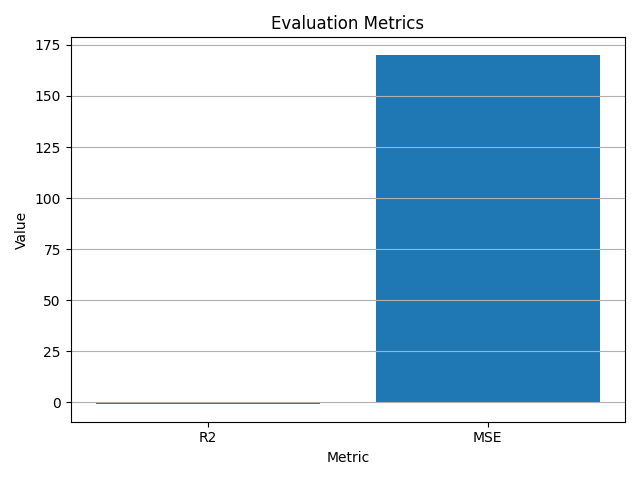
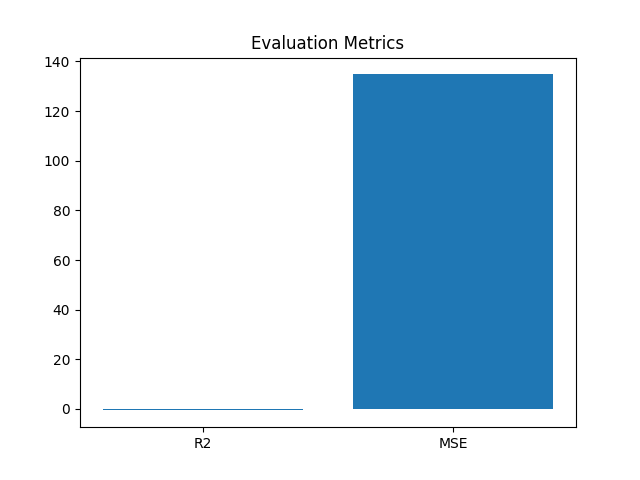
added by zj

diff --git a/templates/myGPT/experiment.py b/templates/myGPT/experiment.py
@@ -2,6 +2,7 @@ import os
 import datetime
 import pandas as pd
 import numpy as np
+import json
 import torch
 import torch.nn as nn
 import torch.nn.functional as F
@@ -11,8 +12,9 @@ from torch.utils.data import Dataset, DataLoader, random_split
 # Project Metadata
 # ====================================================
 project_name = "基于dify生成反义寡核苷酸（ASO）在血友病患者中的应用与优化研究"
-author = "Zheng Jun"
-date = datetime.date.today().isoformat()
+author       = "Zheng Jun"
+date         = datetime.date.today().isoformat()
+dataset_name = "shakespeare_char"   # used as the top‐level key in final_info.json
 
 # ====================================================
 # Directory Structure Setup
@@ -28,6 +30,10 @@ dirs = [
 for d in dirs:
     os.makedirs(d, exist_ok=True)
 
+# create run_0 for model + results
+run_dir = os.path.join(base_dir, "run_0")
+os.makedirs(run_dir, exist_ok=True)
+
 # ====================================================
 # Data Loading & Preprocessing
 # ====================================================
@@ -38,8 +44,8 @@ def load_data(path: str) -> pd.DataFrame:
 def preprocess_data(df: pd.DataFrame) -> pd.DataFrame:
     df = df.dropna()
     df['delivery_code'] = df['delivery_method'].map({
-        'intravenous': 0,
-        'subcutaneous': 1,
+        'intravenous':   0,
+        'subcutaneous':  1,
         'intramuscular': 2
     })
     return df
@@ -50,19 +56,19 @@ def preprocess_data(df: pd.DataFrame) -> pd.DataFrame:
 class ASODataset(Dataset):
     def __init__(self, df):
         self.sequences = df['aso_sequence'].tolist()
-        self.methods = torch.tensor(df['delivery_code'].values, dtype=torch.long)
-        self.numeric = torch.tensor(
+        self.methods   = torch.tensor(df['delivery_code'].values, dtype=torch.long)
+        self.numeric   = torch.tensor(
             df[['age','dosage_mg','baseline_factor_level_pct']].values,
             dtype=torch.float32
         )
-        self.labels = torch.tensor(df['improvement_pct'].values, dtype=torch.float32)
-        self.base2idx = {'A':0,'T':1,'C':2,'G':3}
+        self.labels    = torch.tensor(df['improvement_pct'].values, dtype=torch.float32)
+        self.base2idx  = {'A':0,'T':1,'C':2,'G':3}
 
     def __len__(self):
         return len(self.labels)
 
     def __getitem__(self, idx):
-        seq = self.sequences[idx]
+        seq     = self.sequences[idx]
         seq_idx = torch.tensor([self.base2idx[b] for b in seq], dtype=torch.long)
         return seq_idx, self.methods[idx], self.numeric[idx], self.labels[idx]
 
@@ -72,33 +78,29 @@ class ASODataset(Dataset):
 class ASOPredictor(nn.Module):
     def __init__(self, seq_len=15, base_embed_dim=8, lstm_hidden=16, method_embed_dim=4, mlp_hidden=64):
         super().__init__()
-        self.base2idx = {'A':0,'T':1,'C':2,'G':3}
-        self.embedding = nn.Embedding(num_embeddings=4, embedding_dim=base_embed_dim)
-        self.lstm = nn.LSTM(input_size=base_embed_dim, hidden_size=lstm_hidden, batch_first=True)
-        self.method_emb = nn.Embedding(num_embeddings=3, embedding_dim=method_embed_dim)
-        self.fc = nn.Sequential(
+        self.embedding   = nn.Embedding(num_embeddings=4, embedding_dim=base_embed_dim)
+        self.lstm        = nn.LSTM(input_size=base_embed_dim, hidden_size=lstm_hidden, batch_first=True)
+        self.method_emb  = nn.Embedding(num_embeddings=3, embedding_dim=method_embed_dim)
+        self.fc          = nn.Sequential(
             nn.Linear(lstm_hidden + method_embed_dim + 3, mlp_hidden),
             nn.ReLU(),
             nn.Linear(mlp_hidden, 1)
         )
 
     def forward(self, seq_idx: torch.Tensor, methods: torch.Tensor, numeric_feats: torch.Tensor):
-        # 1. 先取统一的 device（取决于 seq_idx）
-        device = seq_idx.device
-        
-        # 2. 将所有输入都搬到同一个 device 上
-        seq_idx        = seq_idx.to(device)
-        methods        = methods.to(device)
-        numeric_feats  = numeric_feats.to(device)
-        
-        # 3. 正常前向
-        x_embed    = self.embedding(seq_idx)
-        _, (h_n, _) = self.lstm(x_embed)
+        # ensure all inputs on same device
+        device        = seq_idx.device
+        seq_idx       = seq_idx.to(device)
+        methods       = methods.to(device)
+        numeric_feats = numeric_feats.to(device)
+
+        # forward pass
+        x_embed     = self.embedding(seq_idx)
+        _, (h_n,_)  = self.lstm(x_embed)
         seq_feat    = h_n.squeeze(0)
-        
         method_feat = self.method_emb(methods)
         num_feat    = numeric_feats
-        
+
         x = torch.cat([seq_feat, method_feat, num_feat], dim=1)
         return self.fc(x)
 
@@ -110,15 +112,14 @@ def train(model, train_loader, optimizer, criterion, device='cpu'):
     for epoch in range(1, 11):
         epoch_loss = 0.0
         for seqs, methods, nums, labels in train_loader:
-            # —— 关键：整批数据都 .to(device) —— 
-            seqs    = seqs.to(device)    
+            seqs    = seqs.to(device)
             methods = methods.to(device)
             nums    = nums.to(device)
             labels  = labels.to(device)
 
             optimizer.zero_grad()
-            preds = model(seqs, methods, nums)
-            loss  = criterion(preds.squeeze(), labels)
+            preds = model(seqs, methods, nums).squeeze()
+            loss  = criterion(preds, labels)
             loss.backward()
             optimizer.step()
             epoch_loss += loss.item()
@@ -130,8 +131,12 @@ def validate(model, val_loader, criterion, device='cpu'):
     val_loss = 0.0
     with torch.no_grad():
         for seqs, methods, nums, labels in val_loader:
-            preds = model(seqs, methods.to(device), nums.to(device))
-            loss = criterion(preds.squeeze(), labels.to(device))
+            seqs    = seqs.to(device)
+            methods = methods.to(device)
+            nums    = nums.to(device)
+            labels  = labels.to(device)
+            preds   = model(seqs, methods, nums).squeeze()
+            loss    = criterion(preds, labels)
             val_loss += loss.item()
     print(f"Validation Loss={val_loss/len(val_loader):.4f}")
 
@@ -141,10 +146,17 @@ def evaluate(model, test_loader, device='cpu'):
     all_preds, all_labels = [], []
     with torch.no_grad():
         for seqs, methods, nums, labels in test_loader:
-            preds = model(seqs, methods.to(device), nums.to(device)).squeeze().cpu().numpy()
+            seqs    = seqs.to(device)
+            methods = methods.to(device)
+            nums    = nums.to(device)
+            preds   = model(seqs, methods, nums).squeeze().cpu().numpy()
             all_preds.extend(preds)
             all_labels.extend(labels.numpy())
-    metrics = {'R2': r2_score(all_labels, all_preds), 'MSE': mean_squared_error(all_labels, all_preds)}
+    metrics = {
+        'R2':  r2_score(all_labels, all_preds),
+        'MSE': mean_squared_error(all_labels, all_preds)
+    }
+    # save evaluation text for quick look
     with open(os.path.join('results', 'evaluation.txt'), 'w') as f:
         f.write(str(metrics))
     return metrics
@@ -166,23 +178,23 @@ if __name__ == "__main__":
     np.random.seed(42)
 
     data_path = os.path.join(base_dir, 'data', 'dataset.csv')
-    df = load_data(data_path)
-    df = preprocess_data(df)
+    df        = load_data(data_path)
+    df        = preprocess_data(df)
 
-    dataset = ASODataset(df)
-    total = len(dataset)
+    dataset    = ASODataset(df)
+    total      = len(dataset)
     train_size = int(0.8 * total)
-    val_size = int(0.1 * total)
-    test_size = total - train_size - val_size
-    train_ds, val_ds, test_ds = random_split(dataset, [train_size, val_size, test_size], generator=torch.Generator().manual_seed(42))
+    val_size   = int(0.1 * total)
+    test_size  = total - train_size - val_size
 
+    train_ds, val_ds, test_ds = random_split(dataset, [train_size, val_size, test_size])
     train_loader = DataLoader(train_ds, batch_size=16, shuffle=True)
-    val_loader   = DataLoader(val_ds, batch_size=16)
-    test_loader  = DataLoader(test_ds, batch_size=16)
+    val_loader   = DataLoader(val_ds,   batch_size=16)
+    test_loader  = DataLoader(test_ds,  batch_size=16)
 
     #device = torch.device('cuda' if torch.cuda.is_available() else 'cpu')
     device = torch.device('cpu')
-    model = ASOPredictor().to(device)
+    model     = ASOPredictor().to(device)
     optimizer = torch.optim.Adam(model.parameters(), lr=1e-3)
     criterion = nn.MSELoss()
 
@@ -193,3 +205,37 @@ if __name__ == "__main__":
     visualize(metrics)
 
     print("Experiment completed.")
+
+    # ====================================================
+    # Save experiment outputs to run_0
+    # ====================================================
+    # 1) save raw metrics dict as a numpy file
+    all_results_path = os.path.join(run_dir, "all_results.npy")
+    np.save(all_results_path, metrics)
+    print(f"Saved raw results to {all_results_path}")
+
+    # 2) compute means and standard errors (for list‐valued metrics)
+    means = {}
+    stderrs = {}
+    for k, v in metrics.items():
+        arr = np.array(v, dtype=float) if isinstance(v, (list, tuple)) else np.array([v], dtype=float)
+        means[f"{k}_mean"]   = float(arr.mean())
+        if arr.size > 1:
+            stderr = float(arr.std(ddof=1) / np.sqrt(arr.size))
+        else:
+            stderr = 0.0
+        stderrs[f"{k}_stderr"] = stderr
+
+    # 3) assemble final_info structure
+    final_info = {
+        dataset_name: {
+            "means":         means,
+            "stderrs":       stderrs,
+            "final_info_dict": metrics
+        }
+    }
+    # 4) write to JSON
+    final_info_path = os.path.join(run_dir, "final_info.json")
+    with open(final_info_path, "w", encoding="utf-8") as f:
+        json.dump(final_info, f, ensure_ascii=False, indent=4)
+    print(f"Wrote experiment summary to {final_info_path}")

diff --git a/README.md b/README.md
@@ -391,3 +391,9 @@ docker run -it -e OPENAI_API_KEY=$OPENAI_API_KEY \
 ## Star History
 
 [![Star History Chart](https://api.star-history.com/svg?repos=SakanaAI/AI-Scientist&type=Date)](https://star-history.com/#SakanaAI/AI-Scientist&Date)
+
+## my command
+python launch_scientist.py --model "gpt-4o" --experiment nanoGPT_lite --num-ideas 2 --engine openalex --parallel 2
+python launch_scientist.py --model "gpt-4o" --experiment myGPT --num-ideas 1  --parallel 2 --engine openalex
+python launch_scientist.py --model "deepseek-reasoner" --experiment myGPT --num-ideas 1  --parallel 2 --engine openalex
+
